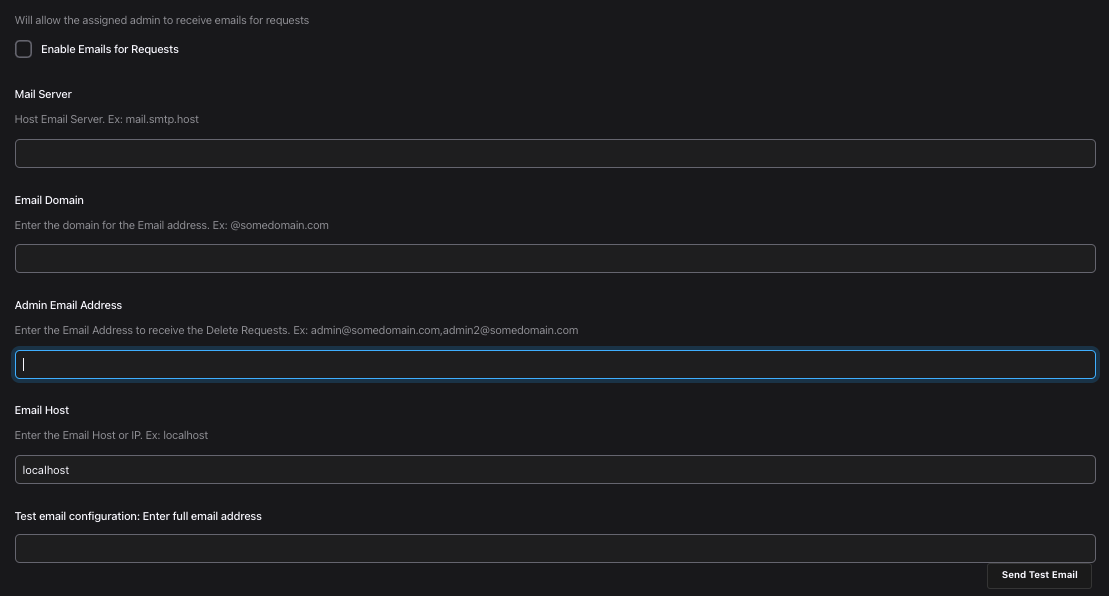
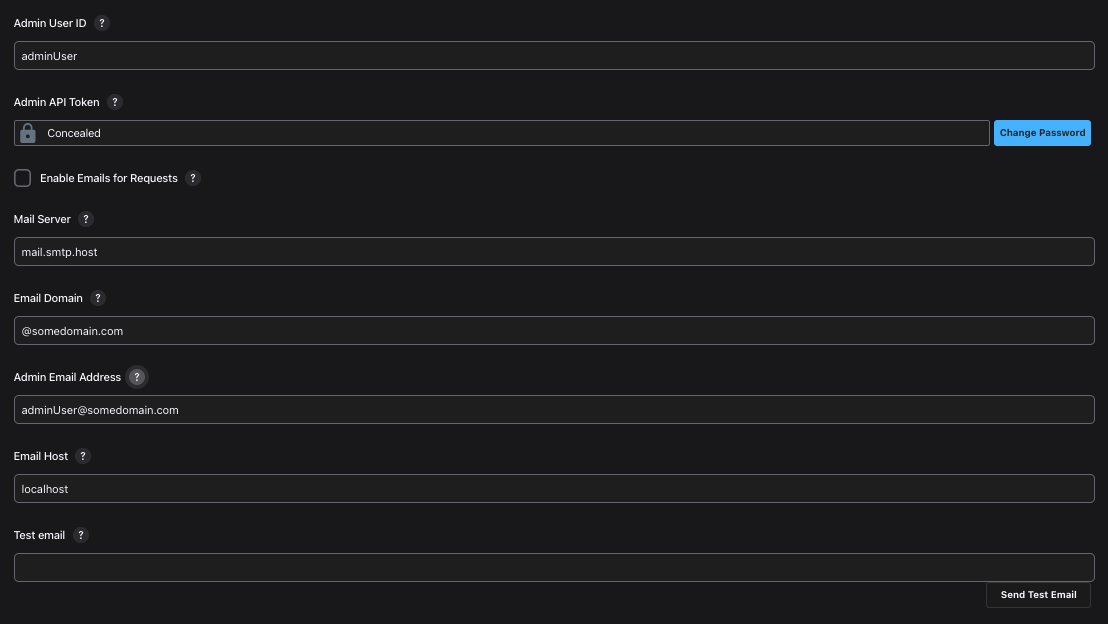
add help topics

diff --git a/src/main/webapp/help-adminEmailAddress.html b/src/main/webapp/help-adminEmailAddress.html
@@ -1,0 +1,6 @@
+<div>
+  Enter the Email Address for a Jenkins Administrator that will receive the submitted Requests from users. 
+  <br><br>
+  Ex: admin@somedomain.com,admin2@somedomain.com
+  
+</div>

diff --git a/src/main/webapp/help-testEmail.html b/src/main/webapp/help-testEmail.html
@@ -1,0 +1,4 @@
+<div>
+  Test email configuration by entering the the full email address.  The email configuration settings must be saved before running the Test email function.
+  
+</div>

diff --git a/src/main/webapp/help-enableEmails.html b/src/main/webapp/help-enableEmails.html
@@ -1,0 +1,4 @@
+<div>
+  This option will allow the assigned admin user to receive emails for submitted requests
+  
+</div>

diff --git a/src/main/webapp/help-adminUserID.html b/src/main/webapp/help-adminUserID.html
@@ -1,0 +1,4 @@
+<div>
+  Enter a Jenkins Administrator User that will be used to process Requests by the plugin
+  
+</div>

diff --git a/src/main/webapp/help-adminAPIToken.html b/src/main/webapp/help-adminAPIToken.html
@@ -1,0 +1,4 @@
+<div>
+  Enter an API Token for the Admin User entered in the Admin User ID field
+  
+</div>

diff --git a/src/main/webapp/help-emailDomain.html b/src/main/webapp/help-emailDomain.html
@@ -1,0 +1,4 @@
+<div>
+  Enter the domain for the Email address. Ex: @somedomain.com
+  
+</div>

diff --git a/src/main/webapp/help-emailHost.html b/src/main/webapp/help-emailHost.html
@@ -1,0 +1,4 @@
+<div>
+  Enter the Email Host or IP. <br><br>Ex: localhost
+  
+</div>

diff --git a/src/main/webapp/help-emailServer.html b/src/main/webapp/help-emailServer.html
@@ -1,0 +1,4 @@
+<div>
+  Host Email Server. <br><br>Ex: mail.smtp.host
+  
+</div>

diff --git a/src/main/java/com/michelin/cio/jenkins/plugin/requests/RequestsPlugin.java b/src/main/java/com/michelin/cio/jenkins/plugin/requests/RequestsPlugin.java
@@ -233,6 +233,10 @@ public class RequestsPlugin extends Plugin {
 			return Messages.RequestManagementLink_Description();
 		}
 
+		public String getCategoryName() {
+			return "TOOLS";
+		}
+
 		@Override
 		public String getIconFileName() {
 			return "/images/48x48/clipboard.png";

diff --git a/CHANGELOG.md b/CHANGELOG.md
@@ -1,11 +1,12 @@
 
 ## Version History
 
-Version 2.2.19 (September 21, 2022)
+Version 2.2.19 (September 22, 2022)
 
 -       Update POM dependencies
--       Fix user name in Manage requests lack of permission error return messages
+-       Fix wrong user name in permission error messages
 -		Add new Request to Delete Multibranch Pipeline
+-		Moved Pending Requests - Manage Jenkins link from Uncategorized to Tools and Actions
 
 
 Version 2.2.18 (May 19, 2022)

diff --git a/README.md b/README.md
@@ -75,7 +75,7 @@ Jenkins** \> **Configure System**):
 
   
 Administrators get a new **Pending  Requests** entry in Jenkins' main
-configuration screen (**Manage Jenkins**):  
+configuration screen (**Manage Jenkins - Tools and Actions**):  
 
  ![](docs/images/pendingRequets.png)
 
